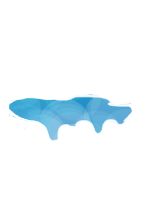
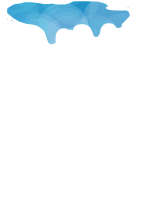
フェードや乗った雨の判定調整

Changed region(s): [[0.0563, 0.4147, 0.9296, 0.6636], [0.0282, 0.0, 0.9296, 0.2212]]

diff --git a/Assets/Gima/script/TestJump_ver2.cs b/Assets/Gima/script/TestJump_ver2.cs
@@ -4,36 +4,37 @@ using UnityEngine;
 
 public class TestJump_ver2 : MonoBehaviour {
 
+    //角度ラインキャスト
+    [SerializeField] private ContactFilter2D filter2D;
+    public LayerMask groundLayer;
+
+    //ラインキャストで地面にいるかどうかの判定に必要なやーつ
+    Vector2 groundedStart;
+    Vector2 groundedEnd;
+    [Header("触らんで。致し方ない理由でpublicにしてます。すいません")]
+    public bool isGrounded = false;
+
     //移動速度
     [Header("移動速度")]
-    public float speed;
+    [SerializeField, Range(0f, 10f)]    private float speed=0.15f;
 
     //ジャンプキー入力
     private int jumpKey = 0;
     private float x;
     private float y;
 
-    //ラインキャストで地面にいるかどうかの判定に必要なやーつ
-    private bool isGrounded = true;
-    Vector2 groundedStart;
-    Vector2 groundedEnd;
+    //private bool isLeftGrounded = true;
+    //Vector2 leftgroundedStart;
+    //Vector2 leftgroundedEnd;
 
-    private bool isLeftGrounded = true;
-    Vector2 leftgroundedStart;
-    Vector2 leftgroundedEnd;
-
-    private bool isRightGrounded = true;
-    Vector2 rightgroundedStart;
-    Vector2 rightgroundedEnd;
-
-    public LayerMask groundLayer;
-    [SerializeField] private ContactFilter2D filter2D;
+    //private bool isRightGrounded = true;
+    //Vector2 rightgroundedStart;
+    //Vector2 rightgroundedEnd;
 
     //自身のRigidbody
     Rigidbody2D rb2d;
 
     //ジャンプに必要なもの
-    private float JumpTimeCounter;
     private bool isJumpingCheck = true;
     private bool isJumping = false;
     private float JumpPower;
@@ -45,30 +46,29 @@ public class TestJump_ver2 : MonoBehaviour {
     [SerializeField, Range(0f, 10f)]
     private float jumpPowerAttenuation = 0.5f;
 
-    private float vo = 9;
-    private float HORIZONTAL_Y = 0;
-
-    private float JumpSpeed = 39;
+    [Header("ジャンプの高さ")]
+    [SerializeField, Range(0f, 50f)]    private float JumpSpeed = 39;
 
     //タメジャンプ
-    public float Jumpcnt = 0;
+    private float Jumpcnt = 0;
     private const float MAX_COUNT = 0.5f;
-    public float Jumpcnt_2 = 0;
 
+    [Header("現在設定されているリスポーンポイント")]
     public Vector3 restartPoint;
 
+    [Header("何かしらの２Dオブジェクトに当たった時の判定")]
     public bool fix = false;
-    private GameObject Res;
-    public bool res = false;
 
+    [Header("デバッグモードがOnかOffか")]
     public bool Debug_F = false;
+
+    [Header("ホワイトアウト用")]
     public bool Fade = false;
 
     Animator _animator;
 
     void Start()
     {
-        Res = GameObject.Find("Fade");
         rb2d = GetComponent<Rigidbody2D>();
         restartPoint = this.transform.position;
         _animator = GetComponent<Animator>();
@@ -99,8 +99,8 @@ public class TestJump_ver2 : MonoBehaviour {
             DebugMove();
             //デバッグ用
             Debug.DrawLine(groundedStart, groundedEnd, Color.red);
-            Debug.DrawLine(leftgroundedStart, leftgroundedEnd, Color.red);
-            Debug.DrawLine(rightgroundedStart, rightgroundedEnd, Color.red);
+            //Debug.DrawLine(leftgroundedStart, leftgroundedEnd, Color.red);
+            //Debug.DrawLine(rightgroundedStart, rightgroundedEnd, Color.red);
         }
     }
 
@@ -111,14 +111,14 @@ public class TestJump_ver2 : MonoBehaviour {
         groundedStart = this.transform.position - this.transform.up * 1.2f;
         groundedEnd = this.transform.position + this.transform.up * 0.1f;
         isGrounded = Physics2D.Linecast(groundedStart, groundedEnd, groundLayer);
-        //左下
-        leftgroundedStart = this.transform.position - this.transform.right * 0.5f - this.transform.up * 1.2f;
-        leftgroundedEnd = this.transform.position + this.transform.up * 0.5f;
-        isLeftGrounded = Physics2D.Linecast(leftgroundedStart, leftgroundedEnd, groundLayer);
-        //右下
-        rightgroundedStart = this.transform.position - this.transform.right * -0.5f - this.transform.up * 1.2f;
-        rightgroundedEnd = this.transform.position + this.transform.up * 0.5f;
-        isRightGrounded = Physics2D.Linecast(rightgroundedStart, rightgroundedEnd, groundLayer);
+        ////左下
+        //leftgroundedStart = this.transform.position - this.transform.right * 0.5f - this.transform.up * 1.2f;
+        //leftgroundedEnd = this.transform.position + this.transform.up * 0.5f;
+        //isLeftGrounded = Physics2D.Linecast(leftgroundedStart, leftgroundedEnd, groundLayer);
+        ////右下
+        //rightgroundedStart = this.transform.position - this.transform.right * -0.5f - this.transform.up * 1.2f;
+        //rightgroundedEnd = this.transform.position + this.transform.up * 0.5f;
+        //isRightGrounded = Physics2D.Linecast(rightgroundedStart, rightgroundedEnd, groundLayer);
 
         isGrounded = rb2d.IsTouching(filter2D);
     }
@@ -238,7 +238,6 @@ public class TestJump_ver2 : MonoBehaviour {
                 {
                     if (Jumpcnt < MAX_COUNT && jumpKey != 0)
                     {
-                        JumpTimeCounter = 1f;
                         isJumpingCheck = false;
                         isJumping = true;
                         JumpPower = JumpSpeed;

diff --git a/Assets/Gima/script/FadeScript.cs b/Assets/Gima/script/FadeScript.cs
@@ -9,6 +9,8 @@ public class FadeScript : MonoBehaviour
     float alfa3 = 0.0f;
     float redin = 0;
     bool fade_F = false;
+
+    [Header("フェードの速さ")]
     [SerializeField, Range(0f, 5f)] private float speed = 0.05f;
 
     [Header("死までの高さ調整")]
@@ -19,11 +21,11 @@ public class FadeScript : MonoBehaviour
     private GameObject Player;
     private bool flg = false;
     private Vector3 p_v;
-    public bool res = false;
-    public bool triangle = false;
+    private bool triangle = false;
     private bool fed = false;
 
     //デバッグ
+    [Header("デバッグモード用(ONならチェック)")]
     public bool debug;
 
     void Start()
@@ -50,6 +52,7 @@ public class FadeScript : MonoBehaviour
             Fade();
         }
 
+        //ホワイトアウト
         if (Player.gameObject.GetComponent<TestJump_ver2>().Fade == true)
         {
             GetComponent<Image>().color = new Color(111111, 111111, 111111, alfa3);
@@ -74,7 +77,8 @@ public class FadeScript : MonoBehaviour
     //地面（乗れるオブジェクトにいるかどうか）
     void PlayerOnRain()
     {
-        if(Player.gameObject.GetComponent<TestJump_ver2>().fix == true)
+        //地面にいるかどうか
+        if(Player.gameObject.GetComponent<TestJump_ver2>().isGrounded == true)
         {
             //地面（オブジェクトに乗っていたらポジションをセーブ）
             p_v = Player.transform.position;

diff --git a/Assets/Gima/script/CameraConntotororu.cs b/Assets/Gima/script/CameraConntotororu.cs
@@ -10,22 +10,22 @@ public class CameraConntotororu : MonoBehaviour
     //プレイヤーオブジェクト
     private GameObject Player;
     //z軸を調整。正の数ならプレイヤーの前に、負の数ならプレイヤーの後ろに配置する
-    private float zAdjust = -12.0f;
-    private float yAdjust = 5.0f;
+    [Header("Z軸の補正")]
+    [SerializeField, Range(0f, 30f)]    private float zAdjust = -12.0f;
+    [Header("Y軸の補正")]
+    [SerializeField, Range(0f, 30f)]    private float yAdjust = 5.0f;
 
     //X座調整
-    public float X_camera = 0.0f;
-    public float Y_camera = 0.0f;
+    private float Y_camera = 0.0f;
 
     // カメラの移動につかうやつまとめ(Nodake)
     GameObject[] rains;
-    public bool fix; // 雨に触れたかどうか
+    private bool fix; // 雨に触れたかどうか
     private bool fix2 = false;
     private bool flg = false;
     private bool flg2 = false;
-    public bool CameraMoveSwitch = false;
+    private bool CameraMoveSwitch = false;
     private bool fix3d;
-    float PlayerY_Save = 0.0f; // ジャンプする前のプレイヤーの位置
 
     void Start()
     {

diff --git a/Assets/Gima/script/RainController.cs b/Assets/Gima/script/RainController.cs
@@ -10,16 +10,21 @@ public class RainController : MonoBehaviour
     private GameObject Player;
     //経過時間
     private float time = 0f;
-    //雨生成時間間隔
-    public float interval;
-    //X座標の最小値
-    public float xMinPosition = -10f;
-    //X座標の最大値
-    public float xMaxPosition = 10f;
-    //Y座標の最小値
-    public float yMinPosition = 5f;
-    //Y座標の最大値
-    public float yMaxPosition = 10f;
+
+    [Header("雨の生成間隔")]
+    [SerializeField, Range(0, 20f)] private float interval = 0.5f;
+
+    [Header("X座標の最小値")]
+    [SerializeField, Range(-50, 0)] private float xMinPosition = -17f;
+
+    [Header("X座標の最大値")]
+    [SerializeField, Range(0, 50)] private float xMaxPosition = 20f;
+
+    [Header("Y座標の最小値")]
+    [SerializeField, Range(-20, 50)] private float yMinPosition = 18f;
+
+    [Header("Y座標の最大値")]
+    [SerializeField, Range(-20, 50)] public float yMaxPosition = 17f;
 
     void Start()
     {

diff --git a/Assets/Gima/script/RainOperation.cs b/Assets/Gima/script/RainOperation.cs
@@ -5,7 +5,9 @@ using UnityEngine;
 public class RainOperation : MonoBehaviour {
 
     SpriteRenderer MainSpriteRenderer;
+    [Header("雨の速さ")]
     [SerializeField, Range(0,20f)] private float speed = 0.5f;
+    [Header("当たり判定")]
     public bool fix = false;
     public Sprite mainsprite;
     public Sprite sabsprite;
